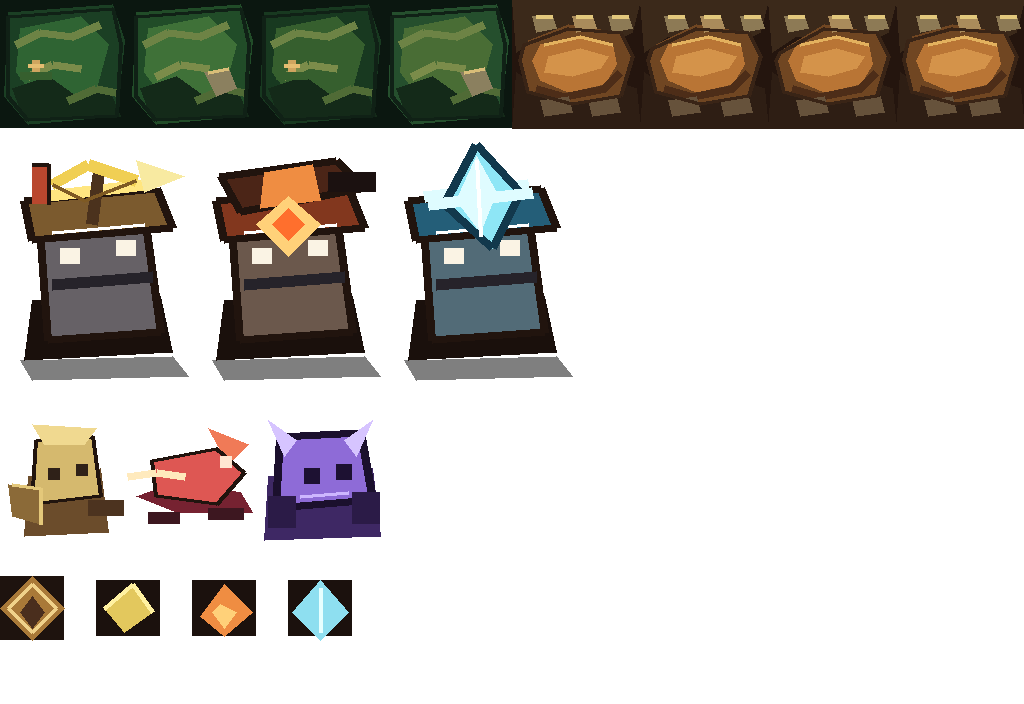
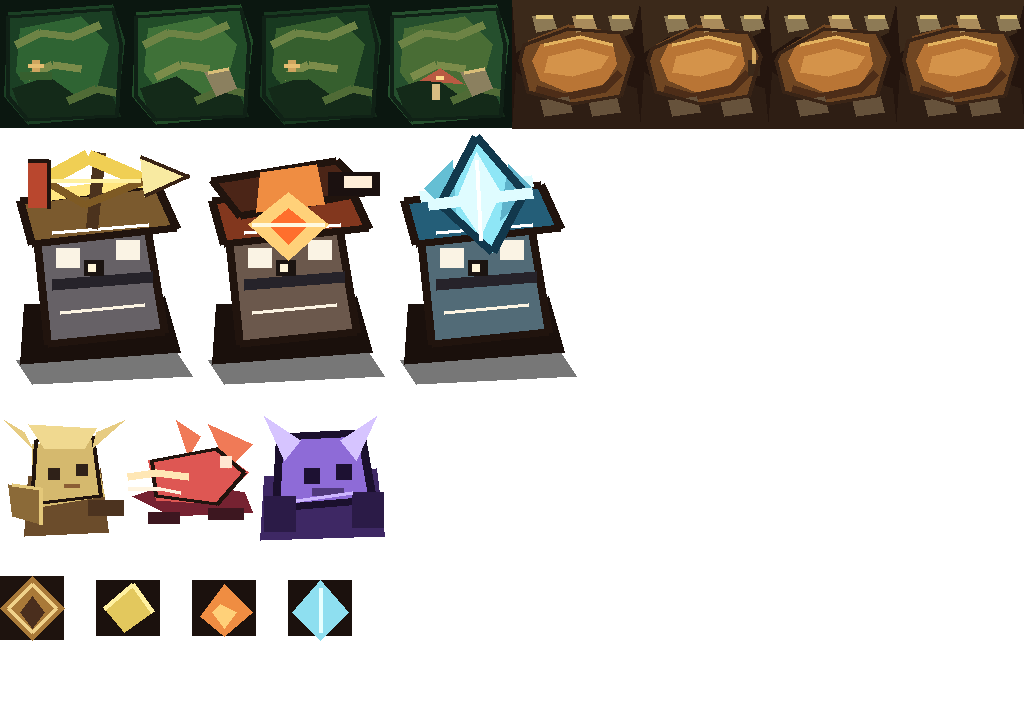
Add charming stylized art pass

diff --git a/src/render/renderer.js b/src/render/renderer.js
@@ -255,6 +255,20 @@ function drawPathOrnaments(ctx, content, m) {
     ctx.fillRect(px + 7, cy - 4, 9, 3);
   }
 
+  // A few low-priority toy-board roadside flags add warmth without stealing lane priority.
+  for (let x = 1.25; x < m.gridW - .5; x += 2.55) {
+    const px = x * m.cellW + ((Math.floor(x * 10) % 2) ? 5 : -3);
+    const top = cy - m.cellH * .47;
+    ctx.fillStyle = 'rgba(19, 12, 8, .34)';
+    ctx.fillRect(px - 2, top + 16, 13, 3);
+    ctx.fillStyle = '#6b5632';
+    ctx.fillRect(px, top, 3, 19);
+    ctx.fillStyle = 'rgba(213, 163, 81, .54)';
+    ctx.fillRect(px + 3, top + 2, 10, 7);
+    ctx.fillStyle = 'rgba(255, 231, 166, .22)';
+    ctx.fillRect(px + 5, top + 3, 4, 1);
+  }
+
   // entrance / keep markers: decorative but small enough not to compete with enemies.
   drawGateMarker(ctx, 18, cy, 'start');
   drawGateMarker(ctx, m.gridW * m.cellW - 18, cy, 'end');
@@ -494,12 +508,16 @@ function drawBrute(ctx, x, y, s, meta) {
 }
 
 function drawSlowOverlay(ctx, x, y, s) {
-  ctx.strokeStyle = PALETTE.frost;
-  ctx.lineWidth = 3;
-  ctx.strokeRect(Math.floor(x - s * .62), Math.floor(y - s * .62), Math.floor(s * 1.24), Math.floor(s * 1.24));
+  ctx.strokeStyle = 'rgba(142, 223, 240, .78)';
+  ctx.lineWidth = 2;
+  ctx.setLineDash([5, 4]);
+  ctx.strokeRect(Math.floor(x - s * .64), Math.floor(y - s * .64), Math.floor(s * 1.28), Math.floor(s * 1.28));
+  ctx.setLineDash([]);
   ctx.fillStyle = 'rgba(142, 223, 240, .20)';
   ctx.fillRect(x - s * .44, y - s * .50, s * .88, s * .88);
   pixelDiamond(ctx, x + s * .45, y - s * .42, s * .12, '#dcfbff');
+  ctx.fillStyle = 'rgba(220, 251, 255, .42)';
+  ctx.fillRect(x - s * .50, y + s * .34, s * .22, 2);
 }
 
 function drawEffects(ctx, content, state, m, alpha = 0) {
@@ -529,6 +547,12 @@ function drawEffects(ctx, content, state, m, alpha = 0) {
 }
 
 function drawBolt(ctx, from, to, color) {
+  ctx.strokeStyle = 'rgba(49, 33, 16, .45)';
+  ctx.lineWidth = 4;
+  ctx.beginPath();
+  ctx.moveTo(from.x + 1, from.y + 2);
+  ctx.lineTo(to.x + 1, to.y + 2);
+  ctx.stroke();
   ctx.strokeStyle = '#fff0a8';
   ctx.lineWidth = 2;
   ctx.beginPath();
@@ -537,25 +561,40 @@ function drawBolt(ctx, from, to, color) {
   ctx.stroke();
   ctx.fillStyle = color;
   pixelDiamond(ctx, to.x, to.y, 6, color);
+  ctx.fillStyle = 'rgba(255, 244, 190, .55)';
+  ctx.fillRect(to.x - 8, to.y - 1, 16, 2);
 }
 
 function drawBlast(ctx, from, to, meta) {
+  ctx.strokeStyle = 'rgba(53, 28, 18, .45)';
+  ctx.lineWidth = 7;
+  ctx.beginPath();
+  ctx.moveTo(from.x + 1, from.y + 2);
+  ctx.lineTo(to.x + 1, to.y + 2);
+  ctx.stroke();
   ctx.strokeStyle = meta.color;
-  ctx.lineWidth = 5;
+  ctx.lineWidth = 4;
   ctx.beginPath();
   ctx.moveTo(from.x, from.y);
   ctx.lineTo(to.x, to.y);
   ctx.stroke();
   ctx.strokeStyle = 'rgba(255, 209, 123, .78)';
-  ctx.lineWidth = 4;
+  ctx.lineWidth = 3;
   ctx.beginPath();
-  ctx.arc(to.x, to.y, 28, 0, Math.PI * 2);
+  ctx.arc(to.x, to.y, 22, 0, Math.PI * 2);
   ctx.stroke();
-  pixelDiamond(ctx, to.x, to.y, 13, '#ffd17b');
+  pixelDiamond(ctx, to.x, to.y, 12, '#ffd17b');
+  pixelDiamond(ctx, to.x, to.y, 5, '#ff6f2d');
 }
 
 function drawFrostBeam(ctx, from, to, meta) {
-  ctx.strokeStyle = 'rgba(220, 251, 255, .75)';
+  ctx.strokeStyle = 'rgba(20, 52, 70, .40)';
+  ctx.lineWidth = 5;
+  ctx.beginPath();
+  ctx.moveTo(from.x + 1, from.y + 2);
+  ctx.lineTo(to.x + 1, to.y + 2);
+  ctx.stroke();
+  ctx.strokeStyle = 'rgba(220, 251, 255, .78)';
   ctx.lineWidth = 3;
   ctx.beginPath();
   ctx.moveTo(from.x, from.y);
@@ -568,6 +607,8 @@ function drawFrostBeam(ctx, from, to, meta) {
   ctx.lineTo(to.x + 5, to.y);
   ctx.stroke();
   pixelDiamond(ctx, to.x, to.y, 9, meta.trim);
+  ctx.fillStyle = 'rgba(220, 251, 255, .50)';
+  ctx.fillRect(to.x - 10, to.y + 7, 20, 2);
 }
 
 function drawHover(ctx, content, state, ui, m) {

diff --git a/src/render/style.css b/src/render/style.css
@@ -34,6 +34,8 @@ body{
 .topbar:before{content:"";position:absolute;left:8px;right:8px;top:5px;height:2px;background:linear-gradient(90deg,transparent,var(--gold),transparent);opacity:.38}
 .topbar:after{content:"";position:absolute;inset:7px;border:1px solid rgba(224,193,122,.18);pointer-events:none}
 .topbar strong{letter-spacing:.12em;text-transform:uppercase;color:#ffe59a;text-shadow:2px 2px 0 #27170b;font-family:ui-monospace,SFMono-Regular,Menlo,Consolas,monospace}
+.topbar strong:before{content:"✦";color:#d79d52;margin-right:8px;text-shadow:1px 1px 0 #120b07}
+.topbar strong:after{content:"✦";color:#d79d52;margin-left:8px;text-shadow:1px 1px 0 #120b07}
 .muted{color:#c5b68c}
 .layout{display:grid;grid-template-columns:minmax(640px,960px) 292px;gap:18px}
 canvas{
@@ -63,8 +65,9 @@ button{
   box-shadow:inset 0 2px 0 rgba(255,244,190,.12),inset 0 -4px 0 rgba(0,0,0,.30),0 2px 0 #120c09;
   text-shadow:1px 1px 0 #111;
 }
+button:before{content:"◆";display:inline-block;margin-right:7px;color:#c99750;text-shadow:1px 1px 0 #0d0806}
 button:hover{filter:brightness(1.12);border-color:#d3b56f}
-button.active{background:linear-gradient(180deg,#856338,#4a3521);border-color:#ffe09a;color:#fff4c6}
+button.active{background:linear-gradient(180deg,#856338,#4a3521);border-color:#ffe09a;color:#fff4c6;box-shadow:inset 0 2px 0 rgba(255,244,190,.18),inset 0 -4px 0 rgba(0,0,0,.30),0 0 0 2px rgba(255,224,154,.12),0 2px 0 #120c09}
 button:disabled{opacity:.45;cursor:not-allowed}
 .help{font-size:13px;line-height:1.45;color:#c7b88e}
 h2{

diff --git a/scripts/generate-handdrawn-art.py b/scripts/generate-handdrawn-art.py
@@ -39,6 +39,11 @@ def grass_tile(x, y, seed):
         # little stone/sprout landmark for phone-scale variety
         poly([(x+19,y+18),(x+25,y+17),(x+27,y+22),(x+22,y+24)], '#8b805f')
         line([(x+20,y+18),(x+25,y+17)], '#d8bd78', 1)
+    if seed == 3:
+        # one tiny storybook mushroom; rare and chunky enough not to become noise
+        rect(x+12,y+21,x+14,y+25,'#d7bd83')
+        poly([(x+9,y+20),(x+14,y+17),(x+20,y+21)], '#b95a42')
+        rect(x+13,y+19,x+15,y+20,'#ffd98a')
     # hand outline
     line([(x+2,y+4),(x+28,y+2),(x+30,y+11),(x+29,y+29),(x+7,y+30),(x+2,y+24),(x+2,y+4)], '#102116', 1)
 
@@ -62,61 +67,78 @@ def path_tile(x, y, seed):
         line([(x+px+1,y+4),(x+px+5,y+4)], '#e2c77c', 1)
     for i, px in enumerate([7, 18 + (seed % 4)]):
         poly([(x+px,y+25),(x+px+7,y+24),(x+px+8,y+28),(x+px+1,y+29)], '#66523b')
+    if seed == 2:
+        # small warm road marker, useful for handcrafted rhythm but low priority
+        rect(x+27,y+15,x+30,y+19,'#3b291a')
+        rect(x+28,y+12,x+29,y+16,'#d4a85f')
     line([(x+3,y+10+wob),(x+14,y+7),(x+27,y+8),(x+30,y+14),(x+27,y+24),(x+15,y+26),(x+4,y+23),(x+2,y+15),(x+3,y+10+wob)], INK2, 1)
 
 
 def tower_base(x, y, stone, roof, trim):
     # exaggerated toy-soldier tower base, intentionally crooked
-    poly([(x+5,y+50),(x+43,y+49),(x+47,y+54),(x+8,y+55)], '#00000080')
-    poly([(x+8,y+35),(x+40,y+34),(x+43,y+48),(x+6,y+50)], '#1a100c')
-    poly([(x+10,y+17),(x+36,y+14),(x+40,y+43),(x+12,y+45)], stone)
-    line([(x+10,y+17),(x+36,y+14),(x+40,y+43),(x+12,y+45),(x+10,y+17)], INK, 2)
-    rect(x+15,y+22,x+20,y+26,'#f2ddb055'); rect(x+29,y+20,x+34,y+24,'#f2ddb055')
+    poly([(x+4,y+50),(x+44,y+48),(x+48,y+54),(x+8,y+56)], '#00000088')
+    poly([(x+6,y+36),(x+41,y+34),(x+45,y+48),(x+5,y+51)], '#1a100c')
+    poly([(x+9,y+17),(x+36,y+13),(x+41,y+43),(x+12,y+46)], stone)
+    line([(x+9,y+17),(x+36,y+13),(x+41,y+43),(x+12,y+46),(x+9,y+17)], INK, 2)
+    rect(x+14,y+22,x+20,y+27,'#f2ddb055'); rect(x+29,y+20,x+35,y+25,'#f2ddb055')
     line([(x+13,y+31),(x+38,y+29)], '#26232a', 3)
-    poly([(x+6,y+10),(x+39,y+7),(x+43,y+17),(x+8,y+20)], roof)
-    line([(x+6,y+10),(x+39,y+7),(x+43,y+17),(x+8,y+20),(x+6,y+10)], INK, 2)
-    line([(x+10,y+9),(x+36,y+6)], trim, 3)
-    line([(x+13,y+18),(x+36,y+16)], '#ffffff33', 1)
+    line([(x+15,y+38),(x+36,y+36)], '#f6d99844', 1)
+    poly([(x+5,y+10),(x+39,y+6),(x+44,y+17),(x+8,y+21)], roof)
+    line([(x+5,y+10),(x+39,y+6),(x+44,y+17),(x+8,y+21),(x+5,y+10)], INK, 2)
+    line([(x+9,y+9),(x+37,y+5)], trim, 3)
+    line([(x+13,y+18),(x+37,y+16)], '#ffffff33', 1)
+    # cheeky inset badge/face hint gives warmth without becoming UI clutter
+    rect(x+21,y+25,x+26,y+29,'#1b1411')
+    rect(x+22,y+26,x+24,y+28,'#ffe7a166')
 
 
 def tower_arrow(x, y):
     tower_base(x, y, '#666166', '#7b5a2e', '#ffe680')
-    # giant bow silhouette + banner makes it unmistakable
-    line([(x+23,y+16),(x+25,y+1)], '#4b321d', 3)
-    line([(x+13,y+6),(x+22,y+1),(x+34,y+5)], '#f0cf54', 3)
-    line([(x+13,y+6),(x+21,y+10),(x+34,y+5)], '#7e5a24', 1)
-    poly([(x+34,y+0),(x+46,y+4),(x+36,y+8)], '#f8eaa1')
-    rect(x+8,y+1,x+12,y+11,'#b9472e'); line([(x+8,y+1),(x+12,y+1),(x+12,y+11)], INK, 1)
+    # jaunty oversized bow + pennant: reliable, toy-soldier, not sleek/mobile
+    line([(x+23,y+17),(x+25,y-2)], '#4b321d', 3)
+    line([(x+11,y+5),(x+22,y-1),(x+36,y+5)], '#f0cf54', 4)
+    line([(x+11,y+5),(x+21,y+11),(x+36,y+5)], '#7e5a24', 2)
+    line([(x+12,y+5),(x+35,y+5)], '#fff1a1', 1)
+    poly([(x+35,y-1),(x+47,y+4),(x+36,y+9)], '#f8eaa1')
+    line([(x+35,y-1),(x+47,y+4),(x+36,y+9)], INK2, 1)
+    rect(x+7,y+0,x+12,y+12,'#b9472e'); line([(x+7,y+0),(x+12,y+0),(x+12,y+12)], INK, 1)
 
 
 def tower_burst(x, y):
     tower_base(x, y, '#6b584c', '#82371e', '#ffd179')
-    # squat cannon/cauldron with bright ember mouth
-    poly([(x+7,y+4),(x+36,y+0),(x+43,y+7),(x+12,y+13)], '#4b2517')
-    line([(x+7,y+4),(x+36,y+0),(x+43,y+7),(x+12,y+13),(x+7,y+4)], INK, 2)
-    rect(x+34,y+3,x+46,y+8,'#1b1110')
-    poly([(x+18,y+3),(x+30,y+1),(x+32,y+10),(x+17,y+12)], '#ef8d42')
-    poly([(x+24,y+9),(x+32,y+16),(x+24,y+24),(x+16,y+16)], '#ffd179')
-    poly([(x+24,y+12),(x+28,y+16),(x+24,y+20),(x+20,y+16)], '#ff6f2d')
+    # squat kettle-cannon with a friendly ember belly
+    poly([(x+5,y+5),(x+36,y+0),(x+44,y+8),(x+12,y+14)], '#4b2517')
+    line([(x+5,y+5),(x+36,y+0),(x+44,y+8),(x+12,y+14),(x+5,y+5)], INK, 2)
+    rect(x+34,y+3,x+47,y+9,'#1b1110')
+    rect(x+38,y+4,x+45,y+7,'#ffbd6a44')
+    poly([(x+17,y+3),(x+31,y+1),(x+33,y+11),(x+16,y+13)], '#ef8d42')
+    poly([(x+24,y+8),(x+34,y+16),(x+24,y+25),(x+14,y+16)], '#ffd179')
+    poly([(x+24,y+12),(x+29,y+16),(x+24,y+21),(x+19,y+16)], '#ff6f2d')
+    line([(x+15,y+16),(x+33,y+16)], '#fff0a855', 1)
 
 
 def tower_frost(x, y):
     tower_base(x, y, '#526b77', '#245e78', '#dffcff')
-    # tall icy obelisk/crown
-    poly([(x+23,y-4),(x+34,y+8),(x+27,y+22),(x+15,y+11)], '#8ee6f6')
-    poly([(x+23,y-1),(x+28,y+8),(x+24,y+18),(x+18,y+10)], '#dffcff')
-    line([(x+23,y-4),(x+34,y+8),(x+27,y+22),(x+15,y+11),(x+23,y-4)], '#12384c', 2)
+    # playful crystal crown, taller and more iconic but still icy/old-school
+    poly([(x+23,y-6),(x+35,y+8),(x+27,y+23),(x+14,y+11)], '#8ee6f6')
+    poly([(x+23,y-2),(x+29,y+8),(x+24,y+19),(x+18,y+10)], '#dffcff')
+    poly([(x+10,y+7),(x+17,y+0),(x+18,y+15)], '#65bfd4')
+    poly([(x+37,y+7),(x+31,y+1),(x+29,y+15)], '#5eb2ca')
+    line([(x+23,y-6),(x+35,y+8),(x+27,y+23),(x+14,y+11),(x+23,y-6)], '#12384c', 2)
     line([(x+11,y+11),(x+37,y+8)], '#dffcff', 3)
-    line([(x+23,y+0),(x+24,y+19)], '#ffffff88', 1)
+    line([(x+23,y+0),(x+24,y+20)], '#ffffff88', 1)
 
 
 def enemy_grunt(x, y):
     # tan soldier with shield and horned cap
     poly([(x+7,y+15),(x+25,y+13),(x+27,y+29),(x+6,y+30)], '#6b4c2b')
-    poly([(x+9,y+6),(x+23,y+5),(x+25,y+20),(x+8,y+22)], '#d5b96e')
+    poly([(x+8,y+7),(x+23,y+5),(x+26,y+20),(x+8,y+23)], '#d5b96e')
     line([(x+9,y+6),(x+23,y+5),(x+25,y+20),(x+8,y+22),(x+9,y+6)], INK, 1)
-    poly([(x+8,y+2),(x+24,y+3),(x+21,y+7),(x+11,y+7)], '#f0d990')
+    poly([(x+7,y+2),(x+24,y+3),(x+21,y+8),(x+11,y+8)], '#f0d990')
+    poly([(x+6,y+4),(x+1,y+1),(x+8,y+8)], '#e7cc82')
+    poly([(x+24,y+4),(x+31,y+1),(x+23,y+8)], '#e7cc82')
     rect(x+12,y+13,x+15,y+16,'#2f2118'); rect(x+19,y+12,x+22,y+15,'#2f2118')
+    rect(x+16,y+17,x+20,y+18,'#8b5d34')
     poly([(x+2,y+17),(x+10,y+18),(x+10,y+27),(x+3,y+25)], '#8b6a38')
     line([(x+3,y+17),(x+10,y+18),(x+10,y+27)], '#e4c87a', 1)
     rect(x+22,y+21,x+31,y+25,'#4c331f')
@@ -124,25 +146,28 @@ def enemy_grunt(x, y):
 
 def enemy_runner(x, y):
     # red scarf/fox-like runner with long readable motion shape
-    poly([(x+2,y+20),(x+13,y+16),(x+28,y+19),(x+31,y+24),(x+12,y+24)], '#762231')
-    poly([(x+6,y+11),(x+22,y+8),(x+29,y+14),(x+22,y+22),(x+7,y+20)], '#de5753')
-    poly([(x+20,y+3),(x+30,y+7),(x+25,y+12)], '#f07a57')
+    poly([(x+1,y+20),(x+13,y+16),(x+29,y+19),(x+31,y+24),(x+11,y+25)], '#762231')
+    poly([(x+5,y+11),(x+22,y+8),(x+30,y+14),(x+22,y+22),(x+7,y+21)], '#de5753')
+    poly([(x+20,y+2),(x+31,y+7),(x+25,y+13)], '#f07a57')
+    poly([(x+18,y+5),(x+12,y+1),(x+15,y+10)], '#f07a57')
     line([(x+6,y+11),(x+22,y+8),(x+29,y+14),(x+22,y+22),(x+7,y+20),(x+6,y+11)], INK, 1)
     rect(x+23,y+10,x+26,y+13,'#ffe6d1')
-    line([(x+0,y+15),(x+7,y+14),(x+14,y+15)], '#ffd88588', 2)
+    line([(x+0,y+15),(x+7,y+14),(x+15,y+15)], '#ffd88599', 2)
+    line([(x+0,y+18),(x+8,y+18),(x+13,y+19)], '#ffe0a055', 1)
     rect(x+5,y+24,x+13,y+27,'#3d1720'); rect(x+20,y+23,x+29,y+26,'#3d1720')
 
 
 def enemy_brute(x, y):
     # big purple ogre, huge head/arms/horns
-    poly([(x+3,y+15),(x+29,y+13),(x+31,y+30),(x+2,y+31)], '#3e2864')
-    poly([(x+6,y+5),(x+26,y+4),(x+29,y+21),(x+5,y+23)], '#8e6bd7')
+    poly([(x+2,y+15),(x+30,y+13),(x+32,y+30),(x+1,y+31)], '#3e2864')
+    poly([(x+5,y+5),(x+27,y+4),(x+30,y+21),(x+4,y+24)], '#8e6bd7')
     line([(x+6,y+5),(x+26,y+4),(x+29,y+21),(x+5,y+23),(x+6,y+5)], '#1b102d', 2)
-    poly([(x+3,y+1),(x+10,y+6),(x+7,y+10)], '#d6c4ff')
-    poly([(x+29,y+1),(x+22,y+6),(x+25,y+10)], '#d6c4ff')
+    poly([(x+2,y+0),(x+11,y+6),(x+7,y+11)], '#d6c4ff')
+    poly([(x+30,y+0),(x+21,y+6),(x+25,y+11)], '#d6c4ff')
     rect(x+12,y+13,x+16,y+17,'#1d1132'); rect(x+20,y+12,x+24,y+16,'#1d1132')
-    rect(x+3,y+20,x+10,y+28,'#2b1b47'); rect(x+24,y+19,x+31,y+27,'#2b1b47')
-    line([(x+11,y+20),(x+23,y+19)], '#cdb6ff', 1)
+    rect(x+2,y+20,x+10,y+29,'#2b1b47'); rect(x+24,y+19,x+32,y+28,'#2b1b47')
+    rect(x+14,y+18,x+22,y+20,'#50397c')
+    line([(x+10,y+21),(x+24,y+19)], '#cdb6ff', 1)
 
 
 for i in range(4): grass_tile(i * 32, 0, i)

diff --git a/docs/LIL8TD_VISUAL_DOCTRINE_V1.md b/docs/LIL8TD_VISUAL_DOCTRINE_V1.md
@@ -249,3 +249,30 @@ Still remaining for future art passes:
 - Expand UI atlas usage into buttons/cards instead of relying mostly on CSS chrome.
 - Create more terrain transition logic if the map grows beyond the current single-lane board.
 - Do a second review from live mobile screenshots; the success criterion is obvious charm at a glance, not subtle asset-diff correctness.
+
+---
+
+## 14. Charming stylization pass — May 2026
+
+Why slight cartoon stylization is useful:
+
+- Lil8TD units are very small on phone-width screenshots; a controlled cartoon push makes role shapes read faster than surface detail.
+- Toy-soldier exaggeration gives towers/enemies personality while preserving the old-school RTS board feeling.
+- Warm, handmade asymmetry helps the game feel authored rather than procedurally decorated.
+
+Guardrails for this direction:
+
+- Keep colors earthy and warm; role colors may pop, but never become neon or candy-saturated.
+- Prefer silhouette exaggeration over glossy gradients, plastic highlights, or generic mobile-game bounce.
+- Add only chunky, low-count decorative accents; no confetti noise across terrain or path.
+- FX should be brief, local, and directional. They may improve impact readability but must not obscure enemies, HP bars, or placement reads.
+- UI ornaments should feel carved/field-command-like, not heavy chrome competing with the board.
+
+What changed in this pass:
+
+- Towers were pushed toward more lovable toy-fort silhouettes: arrow got a jauntier oversized bow/pennant, burst a friendlier kettle-cannon/ember read, frost a taller playful crystal crown.
+- Enemies gained stronger tiny-unit character: grunt has bigger horn/cap/shield personality, runner has clearer fox-like ears and speed streaks, brute is wider with larger horns/arms.
+- Attack effects gained restrained shadow/highlight layering and smaller impact accents for juicier feedback without particle noise.
+- Slow feedback became a lighter dashed icy box with a small ground glint, keeping it readable but less blocky.
+- Terrain/path received only rare storybook accents and roadside flags, preserving the path/build-tile hierarchy.
+- UI chrome received tiny ornamental glyphs on the command plaque/buttons to add charm without increasing layout weight.